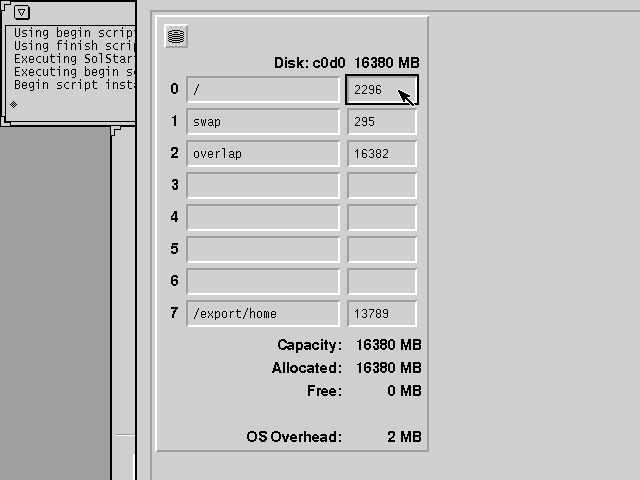
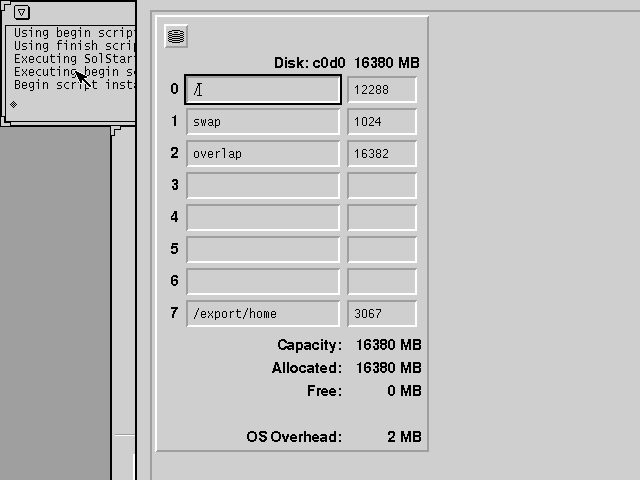
VirtualBox :: settings documented

Changed region(s): [[0.2812, 0.1562, 0.6562, 0.2188], [0.5625, 0.25, 0.5938, 0.2812], [0.125, 0.1562, 0.1562, 0.1875]]

diff --git a/README.md b/README.md
@@ -21,15 +21,17 @@ of installing Solaris 8 x86 in VirtualBox.
   * [HD Partition Layout](#partition-layout)
   * [Customize the File System](#customize-fs)
     * [Simple File System History](#fs-history)
+* [Installing: Reboot](#installing-reboot)
 * [Test Link](#install-console)
 
 ## Introduction
 I've spent many years developing software in the Sun SPARC architecture,
 first on the [SPARCstation 1](https://en.wikipedia.org/wiki/SPARCstation_1) (Sun 4/60)
 up through the [Sun Ultra](https://en.wikipedia.org/wiki/Sun_Ultra_series) 1 and 2.
-Those Sun systems were my first real taste of Unix and 32-bit computing.
+Those Sun systems were my first real taste of Unix and 32-bit computing.<br>
 I remember that a [SPARCstation IPX](https://en.wikipedia.org/wiki/SPARCstation_IPX) was
-not fast enough to decode mp3 files and 1152x900 8-bit color was state-of-the-art graphics
+not fast enough to decode mp3 files.
+1152x900 8-bit color was state-of-the-art graphics
 (yes there were 24-bit cards available, e.g. <code>cgtwelve</code>, but they were expensive
 and very slow and not all of the software supported the 24 bit visuals).<br>
 There's some interesting reading about framebuffers [here](http://www.sunhelp.org/faq/FrameBuffer.html).
@@ -437,10 +439,38 @@ rule of thumb, you should <strong>not</strong> change their meanings.  In simpli
   the <code>/export/home</code> filesystem.
 * Start by shrinking the <code>/export/home</code> filesystem to <strong>100 MB</strong>.<br>
 This will stop the installer from complaining when you increase the size of other partitions.<br>
+Generally, this guide requires about 1.5GB in the root filesystem, but if you want to add<br>
+additional packages and tools, you'll need to size it accordingly.<br>
+Below are the setting that were used for this VM.<br>
+When you are satisfied, pan down and press <strong>OK</strong>, and then press <strong>Continue</strong>. 
 <img src="./images/interactive-customize-2.png" alt="confirm" width="640px" height="auto"><br>
 
+* <strong>Mount Remote File Systems?</strong>
+Nothing to do here, so press <strong>Continue</strong>.
 
+#### :camera: It's recommended that you take a snaphot of the VM here...<br>
+* <strong>Mount Remote File Systems?</strong><br>
+Review your configuration and press <strong>Begin Installation</strong> to install Solaris 8 x86.
+<img src="./images/interactive-final-profile.png" alt="reviw" width="640px" height="auto"><br>
 
+#### Select <strong>Auto Reboot</strong> and the Installation Will Begin...<br>
+&nbsp;&nbsp;&nbsp;&nbsp;&nbsp;&nbsp;&nbsp;<img src="./images/interactive-auto-reboot.png" alt="reviw" width="569px" height="auto"><br>
+&nbsp;&nbsp;&nbsp;&nbsp;&nbsp;&nbsp;&nbsp;...right after you click the <strong>OK</strong> in one more information box after the above dialogue.<br>
+
+#### Some Installation Caps:
+* The installation to the first reboot takes about ½ hour or so.  Your mileage may vary...<br>
+<img src="./images/cap-003s.png" alt="cap" width="320px" height="auto">&nbsp;
+<img src="./images/cap-006s.png" alt="cap" width="320px" height="auto"><br>
+
+<a name="installing-reboot"></a>
+# <span style="text-align:left;">Installing: Reboot<span style="float:right;">&nbsp;&nbsp;&nbsp;&nbsp;[:top:](#top00)</span></span>
+* <strong>Solaris Device Configuration Assistant</strong><br>
+After the first part of the installaton has finished, the system is rebooted to the<br>
+Solaris Device Configuration Assistant.<br>
+<img src="./images/reboot-001.png" alt="Rebooted screen" width="720px" height="auto"><br>
+Press <img src="./images/f2_key.png" alt="F2" width="3%" height="3%">
+to continue the booting process.<br>
+The <strong>Identified Devices</strong>
 
 
 
